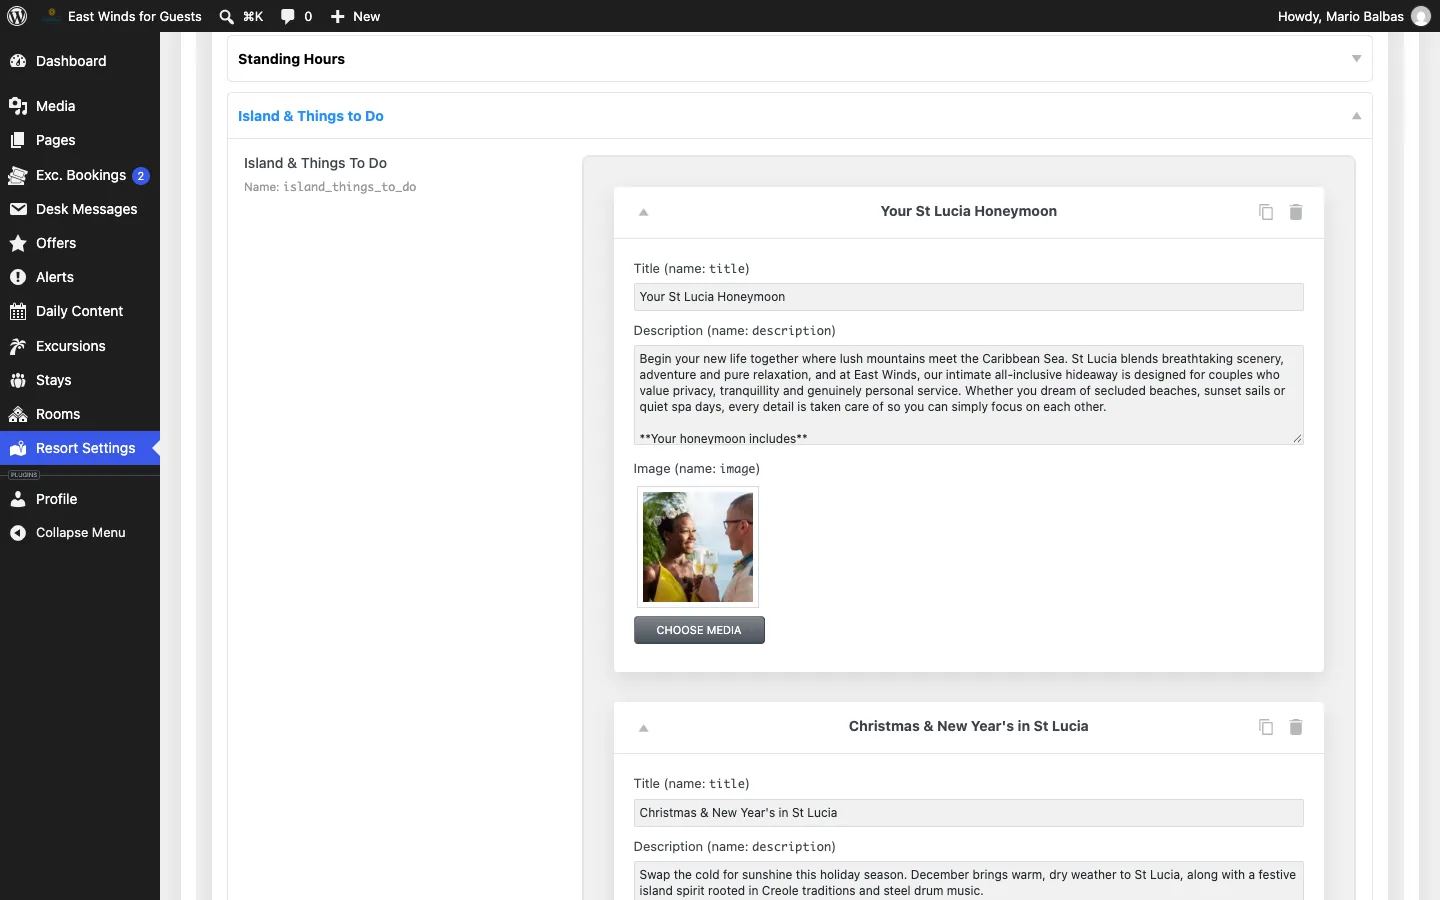
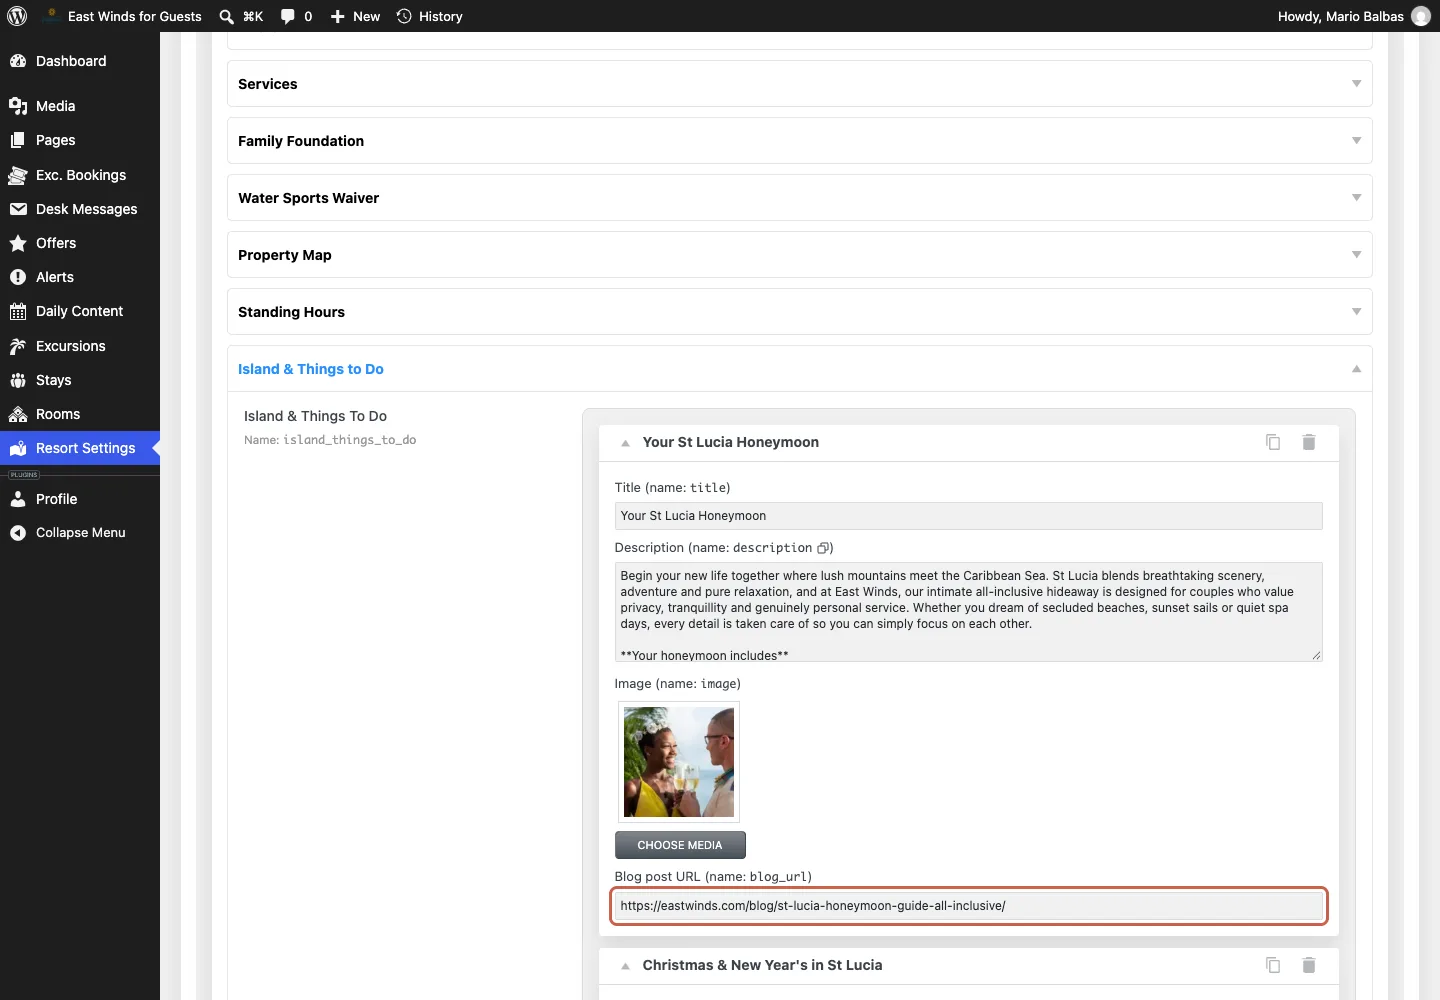
Retake the Island cards screenshot with the Blog post URL field
The Resort Settings screenshot now shows a full Island card with its Blog post URL highlighted; captions updated in both languages.

diff --git a/kw/resort-settings.md b/kw/resort-settings.md
@@ -27,7 +27,7 @@ Bouton kat-la ka dépann di **Blog post URL**-la:
 
 ?> **Konsèy** Kolé tout adwès atik-la, ki ka koumansé ak `https://`. Ouvè'y yon fwa adan navigatè ou pou gadé si i ka mawché avan ou sové.
 
-<figure><img src="assets/img/resort-island.webp" alt="Lign Island and Things to Do yo adan Resort Settings"><figcaption>Kat lil-la, yon lign pou chak.</figcaption></figure>
+<figure><img src="assets/img/resort-island.webp" alt="Lign Island and Things to Do yo adan Resort Settings"><figcaption>Kat lil-la, yon lign pou chak. <strong>Blog post URL</strong>-la (an wouj) sé atik kat-la ka ouvè.</figcaption></figure>
 
 Déskwipsyon-an ka aksepté on ti fòmatay sinp:
 

diff --git a/en/resort-settings.md b/en/resort-settings.md
@@ -27,7 +27,7 @@ The card's button depends on the **Blog post URL**:
 
 ?> **Tip** Paste the full address of the article, starting with `https://`. Open it once in your browser to check it works before saving.
 
-<figure><img src="assets/img/resort-island.webp" alt="The Island and Things to Do rows in Resort Settings"><figcaption>Island cards, one row each.</figcaption></figure>
+<figure><img src="assets/img/resort-island.webp" alt="The Island and Things to Do rows in Resort Settings"><figcaption>Island cards, one row each. The <strong>Blog post URL</strong> (highlighted) is the article the card links to.</figcaption></figure>
 
 The description accepts simple formatting:
 
